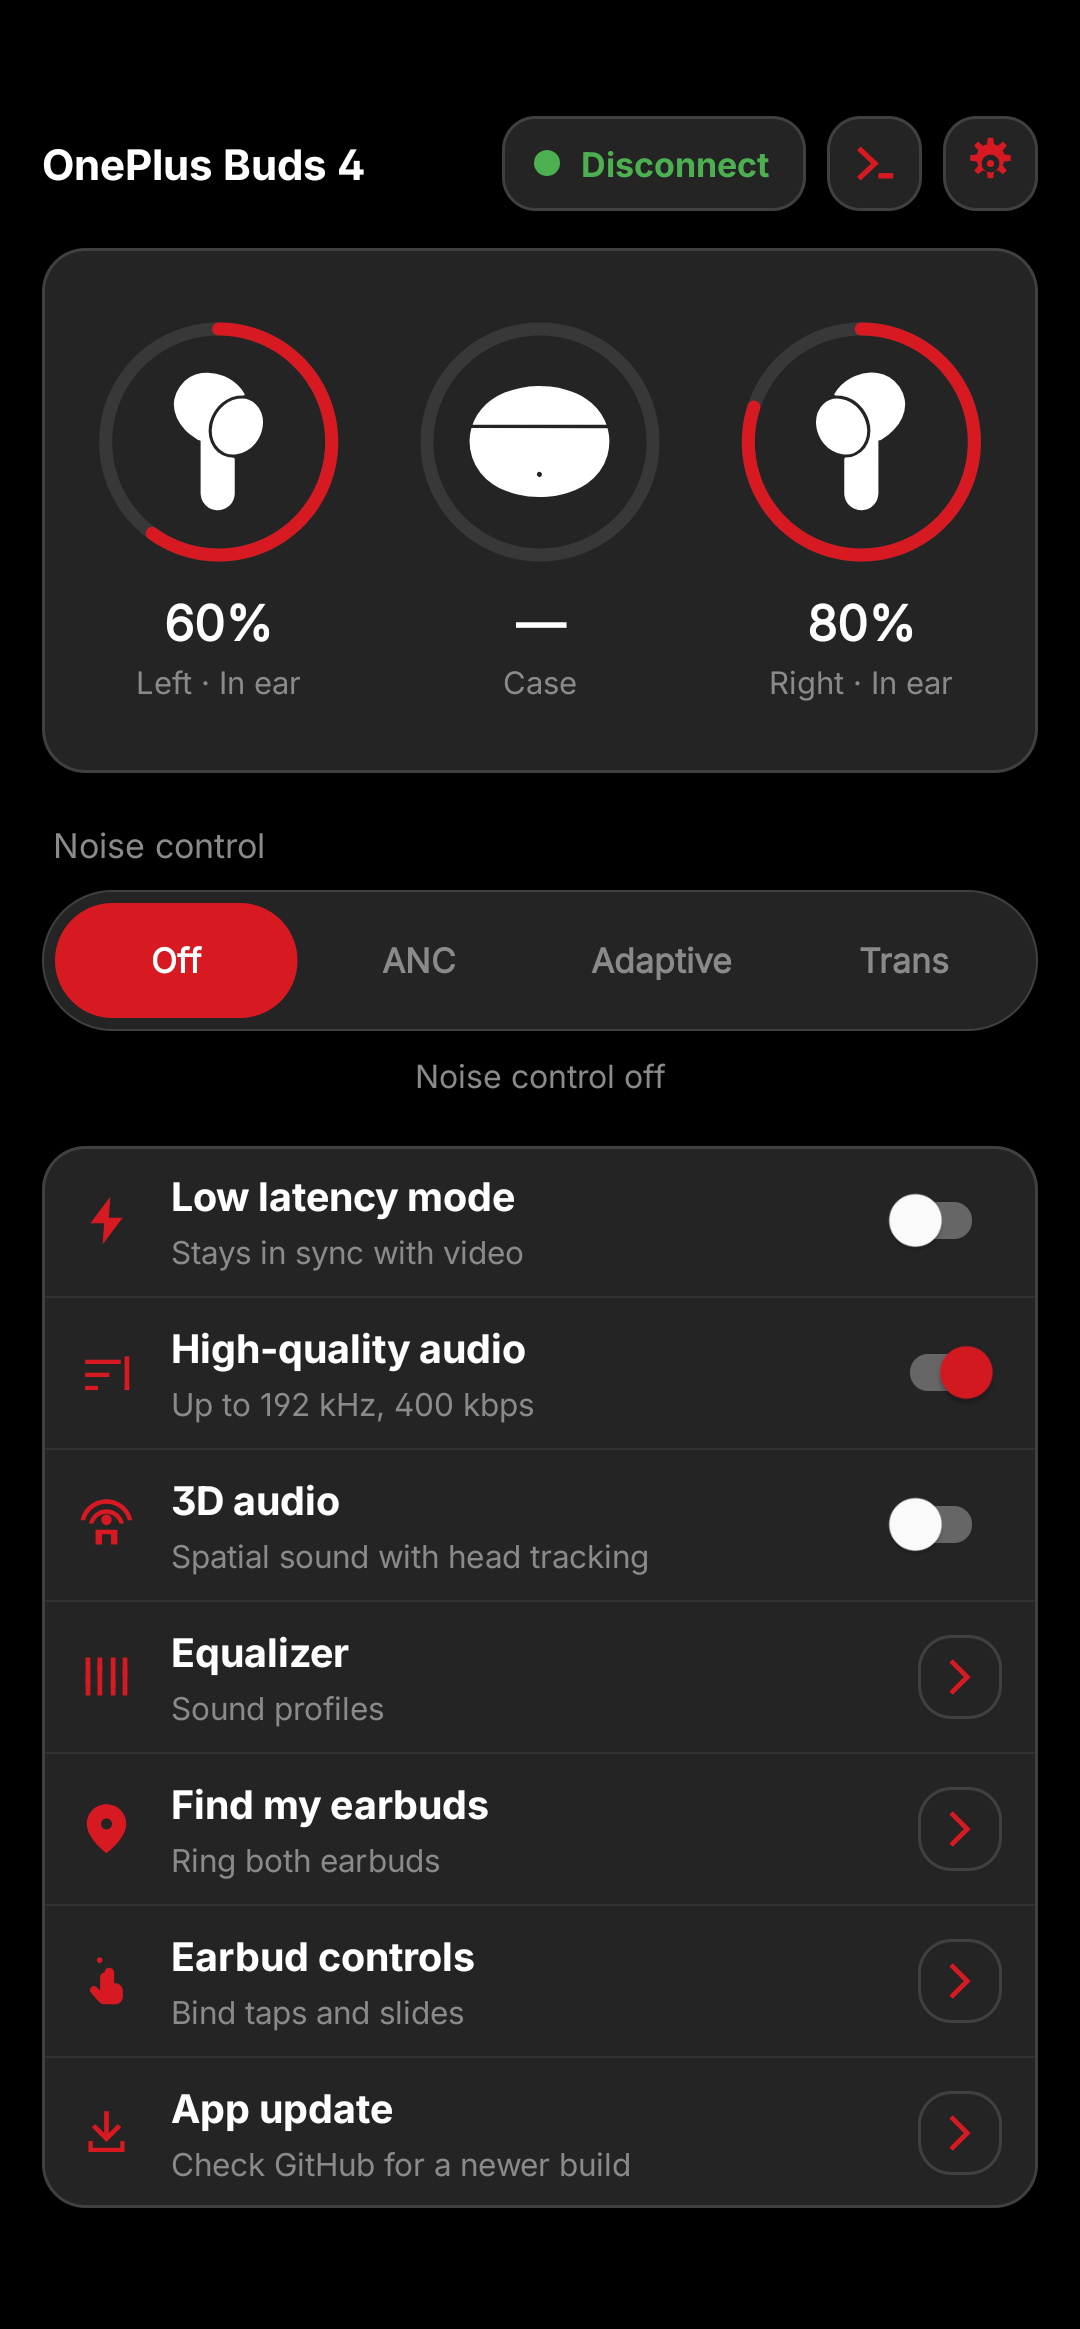
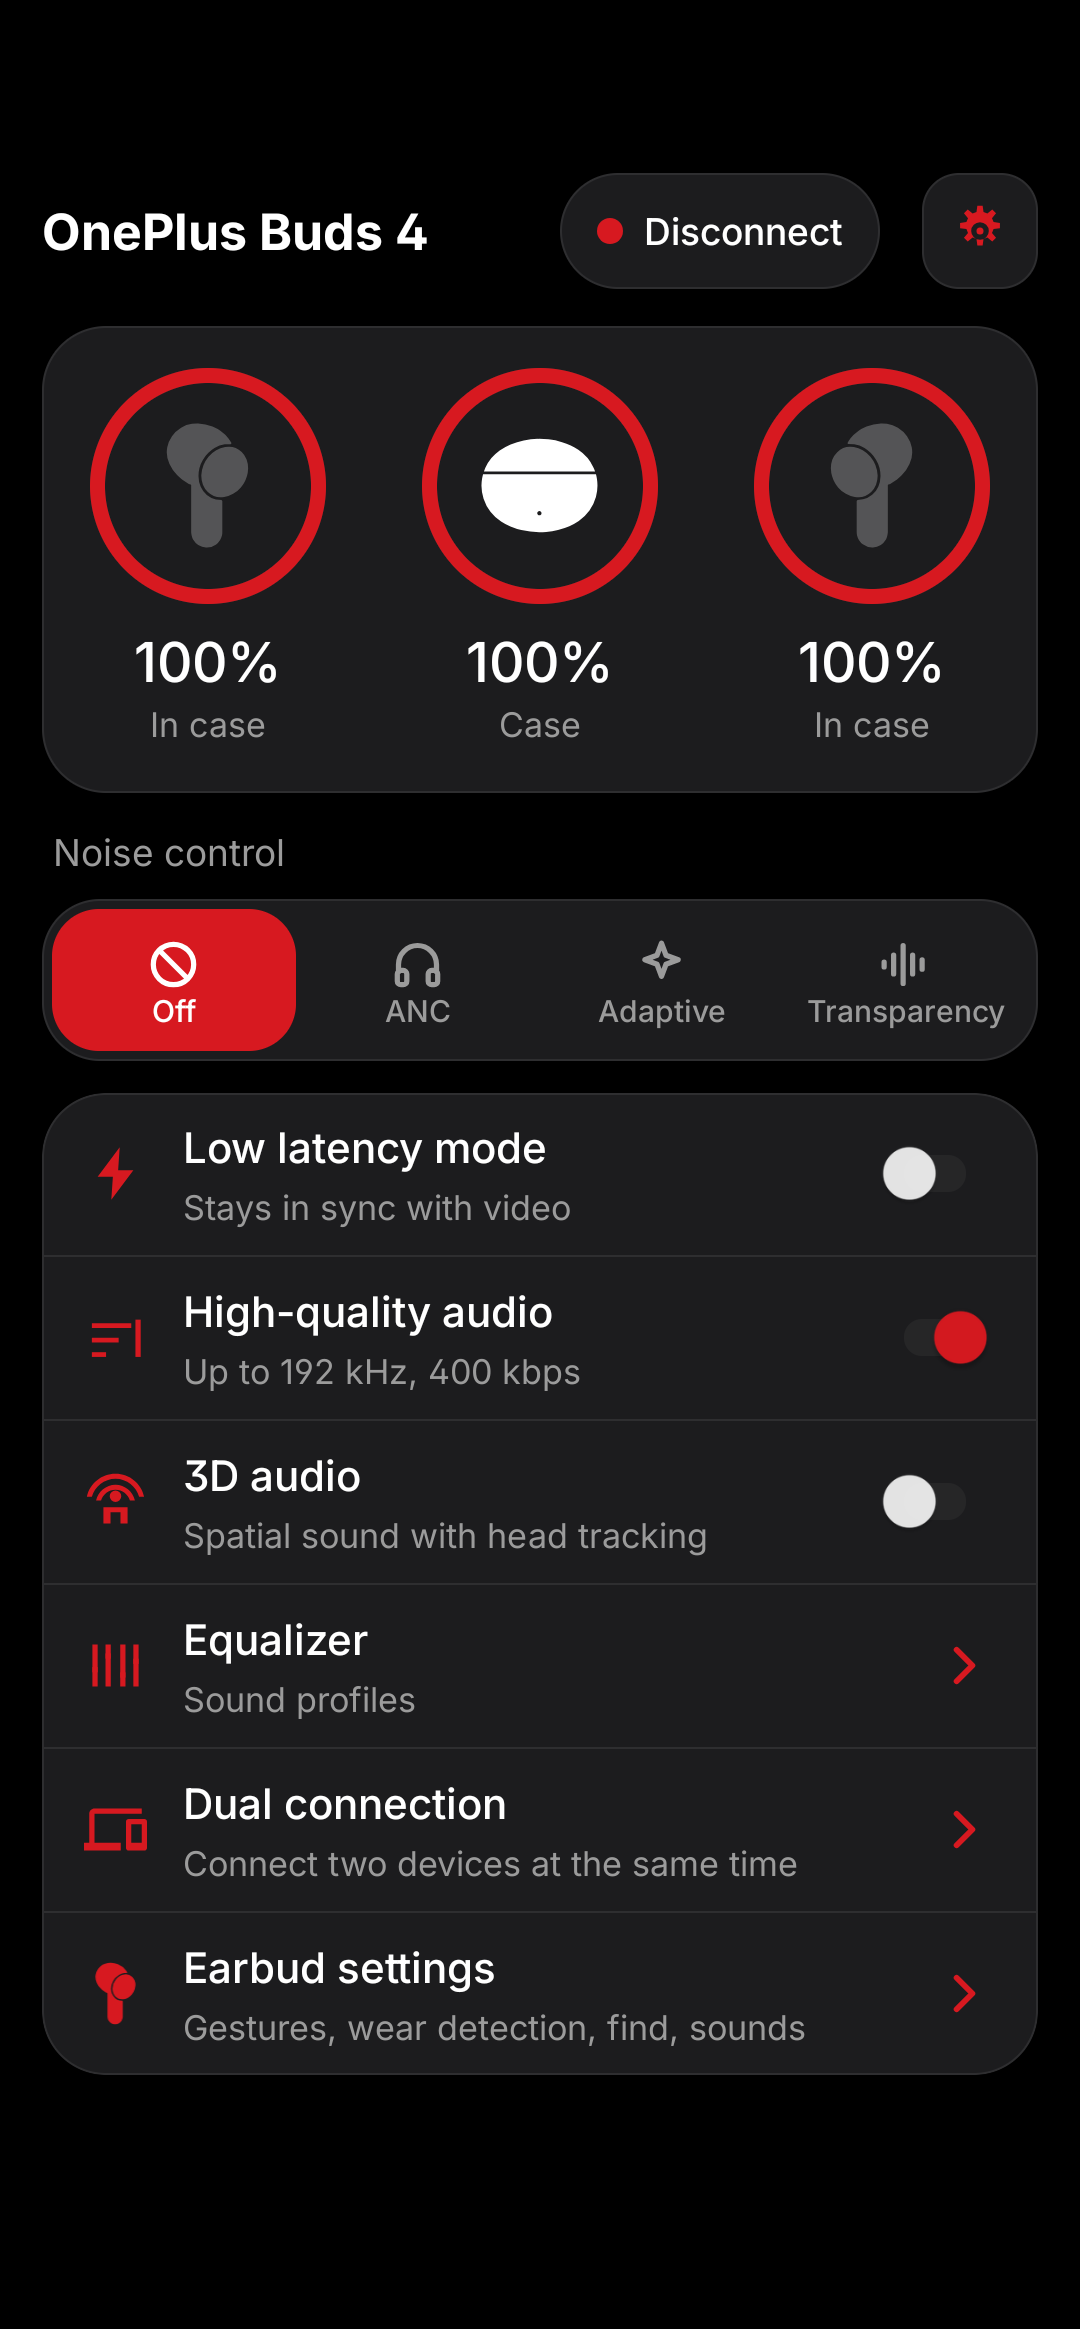
README: screenshots of every screen and all four widgets
scripts/readme-screenshots.sh now opens every screen (no toggles),
returns to the main screen with CLEAR_TOP instead of a force stop, and
crops each widget size from the last home screen page.

diff --git a/README.md b/README.md
@@ -13,9 +13,31 @@ home-screen widget.
 
 <!-- Retaken with scripts/readme-screenshots.sh; see CLAUDE.md. -->
 
-| Main screen | Equalizer | Curve editor | Earbud gestures | Widget |
-| :---: | :---: | :---: | :---: | :---: |
-| <img src="docs/screenshots/main.png" width="200"> | <img src="docs/screenshots/eq.png" width="200"> | <img src="docs/screenshots/eq-curve.png" width="200"> | <img src="docs/screenshots/controls.png" width="200"> | <img src="docs/screenshots/widget.png" width="200"> |
+| Main screen | Equalizer | Curve editor | Earbud settings |
+| :---: | :---: | :---: | :---: |
+| <img src="docs/screenshots/main.png" width="200"> | <img src="docs/screenshots/eq.png" width="200"> | <img src="docs/screenshots/eq-edit.png" width="200"> | <img src="docs/screenshots/earbuds.png" width="200"> |
+
+| Earbud gestures | Wear detection | Find my earbuds | Dual connection |
+| :---: | :---: | :---: | :---: |
+| <img src="docs/screenshots/gestures.png" width="200"> | <img src="docs/screenshots/wear.png" width="200"> | <img src="docs/screenshots/find.png" width="200"> | <img src="docs/screenshots/dual.png" width="200"> |
+
+| Settings | Theme & colors | Edit preset | Home layout |
+| :---: | :---: | :---: | :---: |
+| <img src="docs/screenshots/settings.png" width="200"> | <img src="docs/screenshots/theme.png" width="200"> | <img src="docs/screenshots/preset.png" width="200"> | <img src="docs/screenshots/home-layout.png" width="200"> |
+
+| Widget settings | App update | About |
+| :---: | :---: | :---: |
+| <img src="docs/screenshots/widget-settings.png" width="200"> | <img src="docs/screenshots/update.png" width="200"> | <img src="docs/screenshots/about.png" width="200"> |
+
+### Widgets
+
+| Battery 2x2 | Controls 2x2 |
+| :---: | :---: |
+| <img src="docs/screenshots/widget-battery.png" width="200"> | <img src="docs/screenshots/widget-controls.png" width="200"> |
+
+| Combined 3x2 | Combined 3x3 |
+| :---: | :---: |
+| <img src="docs/screenshots/widget-combined.png" width="300"> | <img src="docs/screenshots/widget-large.png" width="300"> |
 
 ## Features
 
